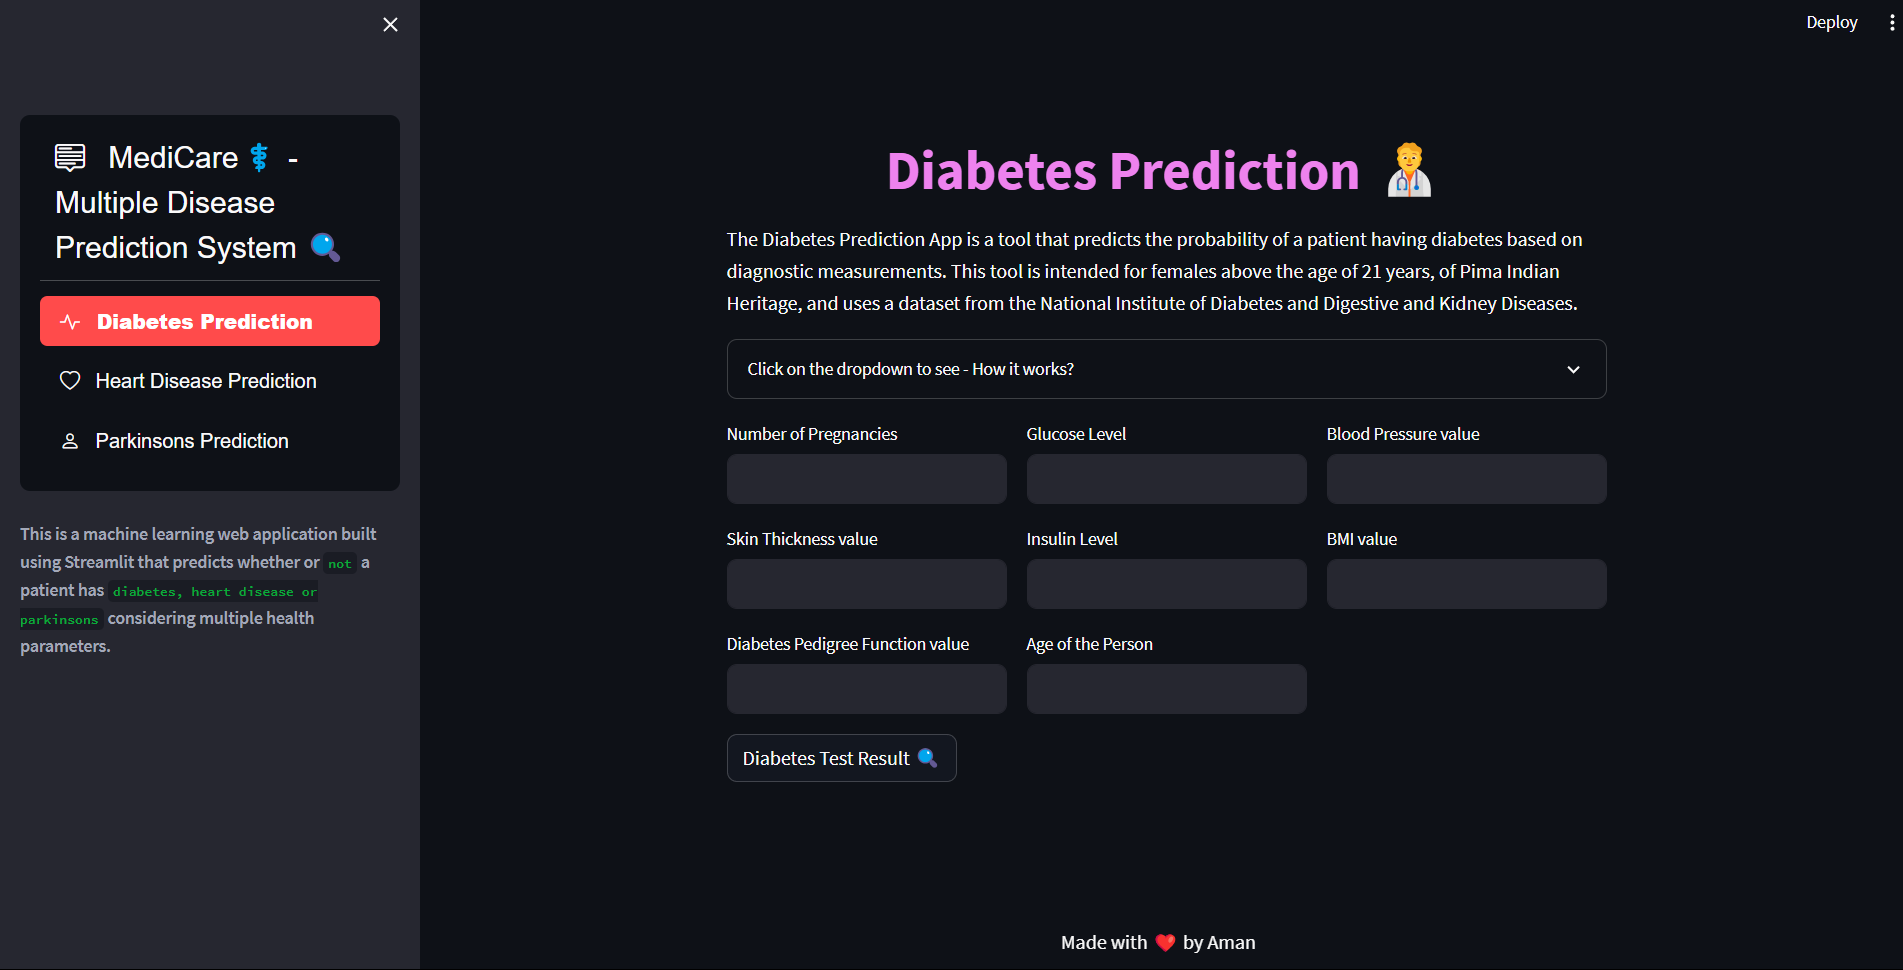
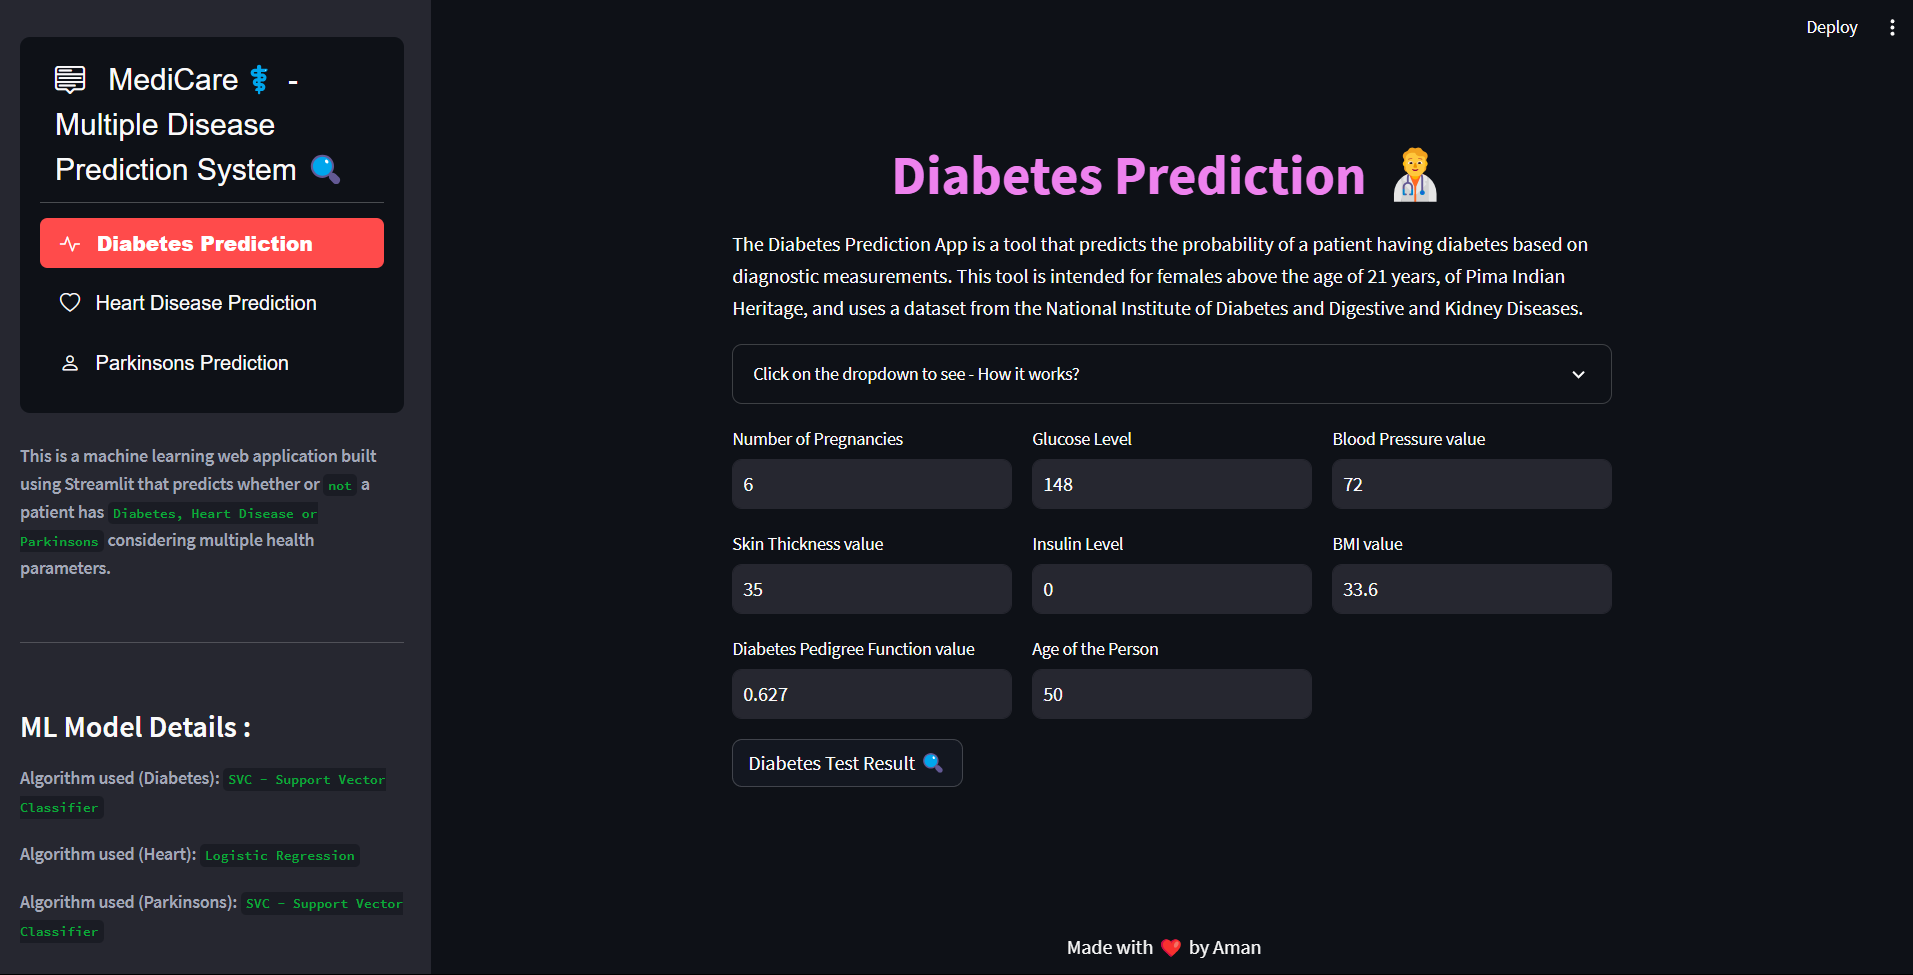
minor changes done

diff --git a/app.py b/app.py
@@ -24,16 +24,27 @@ with st.sidebar:
                           default_index=0)
 
 st.sidebar.caption(
-    '**This is a machine learning web application built using Streamlit that predicts whether or `not` a patient has `diabetes, heart disease or parkinsons` considering multiple health parameters.**')
+    '**This is a machine learning web application built using Streamlit that predicts whether or `not` a patient has `Diabetes, Heart Disease or Parkinsons` considering multiple health parameters.**')
+
+st.sidebar.markdown('---') 
+
+st.sidebar.title('ML Model Details :')
+
+st.sidebar.caption(
+    '**Algorithm used (Diabetes):** **`SVC - Support Vector Classifier`**')
+st.sidebar.caption(
+    '**Algorithm used (Heart):** **`Logistic Regression`**')
+st.sidebar.caption(
+    '**Algorithm used (Parkinsons):** **`SVC - Support Vector Classifier`**')
     
 # Diabetes Prediction Page
 if (selected == 'Diabetes Prediction'):
     
     # page title
-    # st.title('Diabetes Prediction')
     st.markdown("<h1 style='text-align: center; color: violet;'> Diabetes Prediction 🧑⚕</h1>", unsafe_allow_html=True)
 
     st.write('The Diabetes Prediction App is a tool that predicts the probability of a patient having diabetes based on diagnostic measurements. This tool is intended for females above the age of 21 years, of Pima Indian Heritage, and uses a dataset from the National Institute of Diabetes and Digestive and Kidney Diseases.')
+
 
     with st.expander('Click on the dropdown to see - How it works?'):
         st.subheader('Steps to Predict:')

diff --git a/README.md b/README.md
@@ -1,9 +1,3 @@
-<!-- # MediCare 👨⚕
-
-## A Multiple Disease Prediction System
-
-### This GitHub repository contains a machine learning solution for predicting three major diseases: diabetes, Parkinson's disease, and heart disease.  -->
-
 
 <div align='center'>
   
